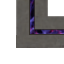
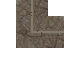
Redrawn resources
Different draw style of tiles. Added tower graphics.

diff --git a/src/draw_graphics.c b/src/draw_graphics.c
@@ -76,14 +76,22 @@ void create_game_objects(void)
         al_draw_filled_circle(32, 32, 16, al_map_rgba(127, 0, 127, 255));
     }
     //OBJ_TOWER
-    globals.objects[OBJ_TOWER] = al_create_bitmap(64, 64);
-    al_set_target_bitmap(globals.objects[OBJ_TOWER]);
-    al_draw_filled_rectangle(8, 8, 56, 56, al_map_rgba(119,136,153, 255));
+    globals.objects[OBJ_TOWER]  = al_load_bitmap("resources/tower_base.png");
+    if (globals.objects[OBJ_TOWER]  == NULL) //fallback graphic
+    {
+        globals.objects[OBJ_TOWER] = al_create_bitmap(64, 64);
+        al_set_target_bitmap(globals.objects[OBJ_TOWER]);
+        al_draw_filled_rectangle(8, 8, 56, 56, al_map_rgba(119,136,153, 255));
+    }
     //OBJ_TOWER_GUN
-    globals.objects[OBJ_TOWER_GUN] = al_create_bitmap(64, 64);
-    al_set_target_bitmap(globals.objects[OBJ_TOWER_GUN]);
-    al_draw_filled_circle(32, 32, 16, al_map_rgba(176,196,222, 255));
-    al_draw_line(32, 32, 32, 0, al_map_rgb(0, 0, 0), 4);
+    globals.objects[OBJ_TOWER_GUN]  = al_load_bitmap("resources/tower_gun.png");
+    if (globals.objects[OBJ_TOWER_GUN]  == NULL) //fallback graphic
+    {
+        globals.objects[OBJ_TOWER_GUN] = al_create_bitmap(64, 64);
+        al_set_target_bitmap(globals.objects[OBJ_TOWER_GUN]);
+        al_draw_filled_circle(32, 32, 16, al_map_rgba(176,196,222, 255));
+        al_draw_line(32, 32, 32, 0, al_map_rgb(0, 0, 0), 4);
+    }
 
     //reselect the display buffer
     al_set_target_backbuffer(display);
